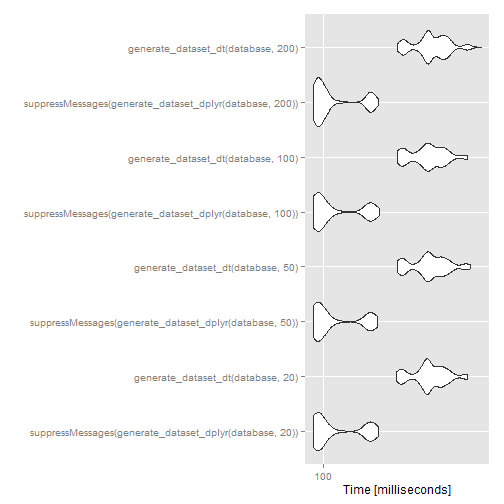
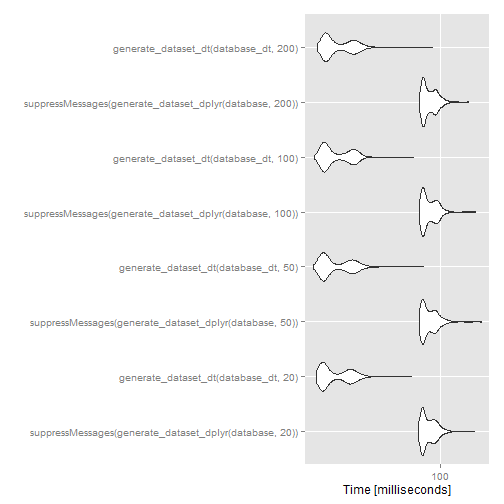
update dplyr vs datatable

diff --git a/dplyr_vs_datatable.html b/dplyr_vs_datatable.html
@@ -196,16 +196,18 @@ database &lt;- within(database, {
     ISM &lt;- ifelse(ID%%2 == 0, 1, 0)
 })
 
+# 
+database_dt &lt;- data.table(database)
 head(database)
 </code></pre>
 
 <pre><code>##     ID TIME REP ISM  PRED IPRED    DV  CONC
-## 1    1    0   1   0 1.262 1.965 9.338 2.856
-## 51   1    1   1   0 1.513 9.854 1.099 5.337
-## 101  1    2   1   0 2.511 3.420 1.323 3.030
-## 151  1    3   1   0 9.914 3.068 6.668 5.791
-## 201  1    4   1   0 7.240 1.479 9.828 4.644
-## 251  1    5   1   0 4.667 2.331 4.774 8.102
+## 1    1    0   1   0 8.916 8.476 7.203 1.777
+## 51   1    1   1   0 4.749 7.615 2.996 6.356
+## 101  1    2   1   0 9.384 3.750 4.315 1.592
+## 151  1    3   1   0 2.419 5.602 4.790 2.957
+## 201  1    4   1   0 6.535 1.549 6.931 1.492
+## 251  1    5   1   0 4.094 8.737 2.849 8.270
 </code></pre>
 
 <pre><code class="r">### functions
@@ -220,27 +222,26 @@ generate_samples(unique(database$ID), REP = length(unique(database$REP)), num_in
 </code></pre>
 
 <pre><code>##    ID REP
-## 1  17   8
-## 2  40  18
-## 3   3 141
-## 4  17  84
-## 5  48 187
-## 6  34 183
-## 7  38 174
-## 8  17  88
-## 9  19  26
-## 10 31  94
+## 1  31  82
+## 2   3 234
+## 3  28  97
+## 4  27 100
+## 5  44  65
+## 6  23  50
+## 7  41 127
+## 8  15 198
+## 9   7 161
+## 10 41  77
 </code></pre>
 
 <pre><code class="r">
 
-generate_dataset_dt &lt;- function(database, inds) {
+generate_dataset_dt &lt;- function(database_dt, inds) {
     num_inds &lt;- inds
-    m &lt;- generate_samples(unique(database$ID), REP = length(unique(database$REP)), 
+    m &lt;- generate_samples(unique(database_dt$ID), REP = length(unique(database_dt$REP)), 
         num_inds = num_inds)
-    dt &lt;- data.table(database)
-    setkey(dt, ID, REP)
-    database_subset &lt;- dt[J(m)]
+    setkey(database_dt, ID, REP)
+    database_subset &lt;- database_dt[J(m)]
     return(database_subset)
 }
 
@@ -251,43 +252,73 @@ generate_dataset_dplyr &lt;- function(database, inds) {
     database_subset &lt;- semi_join(database, m)
     return(database_subset)
 }
-library(ggplot2)
-library(microbenchmark)
+suppressMessages(library(ggplot2))
+suppressMessages(library(microbenchmark))
 
 # check varying subset sizes 20 - 200 individuals
 tm &lt;- microbenchmark(suppressMessages(generate_dataset_dplyr(database, 20)), 
-    generate_dataset_dt(database, 20), suppressMessages(generate_dataset_dplyr(database, 
-        50)), generate_dataset_dt(database, 50), suppressMessages(generate_dataset_dplyr(database, 
-        100)), generate_dataset_dt(database, 100), suppressMessages(generate_dataset_dplyr(database, 
-        200)), generate_dataset_dt(database, 200), times = 500L)
+    generate_dataset_dt(database_dt, 20), suppressMessages(generate_dataset_dplyr(database, 
+        50)), generate_dataset_dt(database_dt, 50), suppressMessages(generate_dataset_dplyr(database, 
+        100)), generate_dataset_dt(database_dt, 100), suppressMessages(generate_dataset_dplyr(database, 
+        200)), generate_dataset_dt(database_dt, 200), times = 500L)
 tm
 </code></pre>
 
 <pre><code>## Unit: milliseconds
-##                                                     expr    min     lq
-##   suppressMessages(generate_dataset_dplyr(database, 20))  91.87  94.22
-##                        generate_dataset_dt(database, 20) 188.59 232.28
-##   suppressMessages(generate_dataset_dplyr(database, 50))  91.85  94.28
-##                        generate_dataset_dt(database, 50) 189.00 228.62
-##  suppressMessages(generate_dataset_dplyr(database, 100))  91.98  94.41
-##                       generate_dataset_dt(database, 100) 190.15 223.18
-##  suppressMessages(generate_dataset_dplyr(database, 200))  92.05  94.68
-##                       generate_dataset_dt(database, 200) 190.00 238.93
-##  median    uq   max neval
-##   98.81 147.7 162.2   500
-##  247.04 276.3 346.7   500
-##   99.02 147.4 160.0   500
-##  247.67 278.0 357.7   500
-##   98.80 147.7 163.6   500
-##  246.83 276.5 348.9   500
-##   99.49 115.2 161.5   500
-##  251.77 280.8 392.6   500
+##                                                     expr   min    lq
+##   suppressMessages(generate_dataset_dplyr(database, 20)) 81.84 84.95
+##                     generate_dataset_dt(database_dt, 20) 32.56 34.46
+##   suppressMessages(generate_dataset_dplyr(database, 50)) 82.24 84.99
+##                     generate_dataset_dt(database_dt, 50) 31.71 34.60
+##  suppressMessages(generate_dataset_dplyr(database, 100)) 82.61 85.21
+##                    generate_dataset_dt(database_dt, 100) 32.07 34.90
+##  suppressMessages(generate_dataset_dplyr(database, 200)) 82.58 85.53
+##                    generate_dataset_dt(database_dt, 200) 32.88 35.40
+##  median    uq    max neval
+##   88.17 94.27 136.03   500
+##   36.43 43.80  76.71   500
+##   88.59 95.06 144.37   500
+##   36.38 44.57  86.34   500
+##   88.21 95.03 136.95   500
+##   36.76 44.45  78.28   500
+##   89.13 95.50 128.22   500
+##   37.34 44.95  93.40   500
 </code></pre>
 
 <pre><code class="r">autoplot(tm)
 </code></pre>
 
[2 lines of base64/hex data omitted]
+
+<pre><code class="r">sessionInfo()
+</code></pre>
+
+<pre><code>## R version 3.0.2 (2013-09-25)
+## Platform: x86_64-w64-mingw32/x64 (64-bit)
+## 
+## locale:
+## [1] LC_COLLATE=English_United States.1252 
+## [2] LC_CTYPE=English_United States.1252   
+## [3] LC_MONETARY=English_United States.1252
+## [4] LC_NUMERIC=C                          
+## [5] LC_TIME=English_United States.1252    
+## 
+## attached base packages:
+## [1] stats     graphics  grDevices utils     datasets  methods   base     
+## 
+## other attached packages:
+## [1] microbenchmark_1.3-0 ggplot2_0.9.3.1      data.table_1.9.2    
+## [4] dplyr_0.1.2          knitr_1.5           
+## 
+## loaded via a namespace (and not attached):
+##  [1] assertthat_0.1.0.99 colorspace_1.2-4    dichromat_2.0-0    
+##  [4] digest_0.6.4        evaluate_0.5.1      formatR_0.10       
+##  [7] grid_3.0.2          gtable_0.1.2        labeling_0.2       
+## [10] MASS_7.3-29         munsell_0.4.2       plyr_1.8           
+## [13] proto_0.3-10        RColorBrewer_1.0-5  Rcpp_0.11.0        
+## [16] reshape2_1.2.2      scales_0.2.3        stringr_0.6.2      
+## [19] tools_3.0.2
+</code></pre>
 
 </body>
 

diff --git a/dplyr_vs_datatable.md b/dplyr_vs_datatable.md
@@ -17,17 +17,19 @@ database <- within(database, {
     ISM <- ifelse(ID%%2 == 0, 1, 0)
 })
 
+# 
+database_dt <- data.table(database)
 head(database)
 ```
 
 ```
 ##     ID TIME REP ISM  PRED IPRED    DV  CONC
-## 1    1    0   1   0 1.262 1.965 9.338 2.856
-## 51   1    1   1   0 1.513 9.854 1.099 5.337
-## 101  1    2   1   0 2.511 3.420 1.323 3.030
-## 151  1    3   1   0 9.914 3.068 6.668 5.791
-## 201  1    4   1   0 7.240 1.479 9.828 4.644
-## 251  1    5   1   0 4.667 2.331 4.774 8.102
+## 1    1    0   1   0 8.916 8.476 7.203 1.777
+## 51   1    1   1   0 4.749 7.615 2.996 6.356
+## 101  1    2   1   0 9.384 3.750 4.315 1.592
+## 151  1    3   1   0 2.419 5.602 4.790 2.957
+## 201  1    4   1   0 6.535 1.549 6.931 1.492
+## 251  1    5   1   0 4.094 8.737 2.849 8.270
 ```
 
 ```r
@@ -44,28 +46,27 @@ generate_samples(unique(database$ID), REP = length(unique(database$REP)), num_in
 
 ```
 ##    ID REP
-## 1  17   8
-## 2  40  18
-## 3   3 141
-## 4  17  84
-## 5  48 187
-## 6  34 183
-## 7  38 174
-## 8  17  88
-## 9  19  26
-## 10 31  94
+## 1  31  82
+## 2   3 234
+## 3  28  97
+## 4  27 100
+## 5  44  65
+## 6  23  50
+## 7  41 127
+## 8  15 198
+## 9   7 161
+## 10 41  77
 ```
 
 ```r
 
 
-generate_dataset_dt <- function(database, inds) {
+generate_dataset_dt <- function(database_dt, inds) {
     num_inds <- inds
-    m <- generate_samples(unique(database$ID), REP = length(unique(database$REP)), 
+    m <- generate_samples(unique(database_dt$ID), REP = length(unique(database_dt$REP)), 
         num_inds = num_inds)
-    dt <- data.table(database)
-    setkey(dt, ID, REP)
-    database_subset <- dt[J(m)]
+    setkey(database_dt, ID, REP)
+    database_subset <- database_dt[J(m)]
     return(database_subset)
 }
 
@@ -76,38 +77,38 @@ generate_dataset_dplyr <- function(database, inds) {
     database_subset <- semi_join(database, m)
     return(database_subset)
 }
-library(ggplot2)
-library(microbenchmark)
+suppressMessages(library(ggplot2))
+suppressMessages(library(microbenchmark))
 
 # check varying subset sizes 20 - 200 individuals
 tm <- microbenchmark(suppressMessages(generate_dataset_dplyr(database, 20)), 
-    generate_dataset_dt(database, 20), suppressMessages(generate_dataset_dplyr(database, 
-        50)), generate_dataset_dt(database, 50), suppressMessages(generate_dataset_dplyr(database, 
-        100)), generate_dataset_dt(database, 100), suppressMessages(generate_dataset_dplyr(database, 
-        200)), generate_dataset_dt(database, 200), times = 500L)
+    generate_dataset_dt(database_dt, 20), suppressMessages(generate_dataset_dplyr(database, 
+        50)), generate_dataset_dt(database_dt, 50), suppressMessages(generate_dataset_dplyr(database, 
+        100)), generate_dataset_dt(database_dt, 100), suppressMessages(generate_dataset_dplyr(database, 
+        200)), generate_dataset_dt(database_dt, 200), times = 500L)
 tm
 ```
 
 ```
 ## Unit: milliseconds
-##                                                     expr    min     lq
-##   suppressMessages(generate_dataset_dplyr(database, 20))  91.87  94.22
-##                        generate_dataset_dt(database, 20) 188.59 232.28
-##   suppressMessages(generate_dataset_dplyr(database, 50))  91.85  94.28
-##                        generate_dataset_dt(database, 50) 189.00 228.62
-##  suppressMessages(generate_dataset_dplyr(database, 100))  91.98  94.41
-##                       generate_dataset_dt(database, 100) 190.15 223.18
-##  suppressMessages(generate_dataset_dplyr(database, 200))  92.05  94.68
-##                       generate_dataset_dt(database, 200) 190.00 238.93
-##  median    uq   max neval
-##   98.81 147.7 162.2   500
-##  247.04 276.3 346.7   500
-##   99.02 147.4 160.0   500
-##  247.67 278.0 357.7   500
-##   98.80 147.7 163.6   500
-##  246.83 276.5 348.9   500
-##   99.49 115.2 161.5   500
-##  251.77 280.8 392.6   500
+##                                                     expr   min    lq
+##   suppressMessages(generate_dataset_dplyr(database, 20)) 81.84 84.95
+##                     generate_dataset_dt(database_dt, 20) 32.56 34.46
+##   suppressMessages(generate_dataset_dplyr(database, 50)) 82.24 84.99
+##                     generate_dataset_dt(database_dt, 50) 31.71 34.60
+##  suppressMessages(generate_dataset_dplyr(database, 100)) 82.61 85.21
+##                    generate_dataset_dt(database_dt, 100) 32.07 34.90
+##  suppressMessages(generate_dataset_dplyr(database, 200)) 82.58 85.53
+##                    generate_dataset_dt(database_dt, 200) 32.88 35.40
+##  median    uq    max neval
+##   88.17 94.27 136.03   500
+##   36.43 43.80  76.71   500
+##   88.59 95.06 144.37   500
+##   36.38 44.57  86.34   500
+##   88.21 95.03 136.95   500
+##   36.76 44.45  78.28   500
+##   89.13 95.50 128.22   500
+##   37.34 44.95  93.40   500
 ```
 
 ```r
@@ -116,5 +117,38 @@ autoplot(tm)
 
 ![plot of chunk unnamed-chunk-1](figure/unnamed-chunk-1.png) 
 
+
+
+```r
+sessionInfo()
+```
+
+```
+## R version 3.0.2 (2013-09-25)
+## Platform: x86_64-w64-mingw32/x64 (64-bit)
+## 
+## locale:
+## [1] LC_COLLATE=English_United States.1252 
+## [2] LC_CTYPE=English_United States.1252   
+## [3] LC_MONETARY=English_United States.1252
+## [4] LC_NUMERIC=C                          
+## [5] LC_TIME=English_United States.1252    
+## 
+## attached base packages:
+## [1] stats     graphics  grDevices utils     datasets  methods   base     
+## 
+## other attached packages:
+## [1] microbenchmark_1.3-0 ggplot2_0.9.3.1      data.table_1.9.2    
+## [4] dplyr_0.1.2          knitr_1.5           
+## 
+## loaded via a namespace (and not attached):
+##  [1] assertthat_0.1.0.99 colorspace_1.2-4    dichromat_2.0-0    
+##  [4] digest_0.6.4        evaluate_0.5.1      formatR_0.10       
+##  [7] grid_3.0.2          gtable_0.1.2        labeling_0.2       
+## [10] MASS_7.3-29         munsell_0.4.2       plyr_1.8           
+## [13] proto_0.3-10        RColorBrewer_1.0-5  Rcpp_0.11.0        
+## [16] reshape2_1.2.2      scales_0.2.3        stringr_0.6.2      
+## [19] tools_3.0.2
+```
 
 
